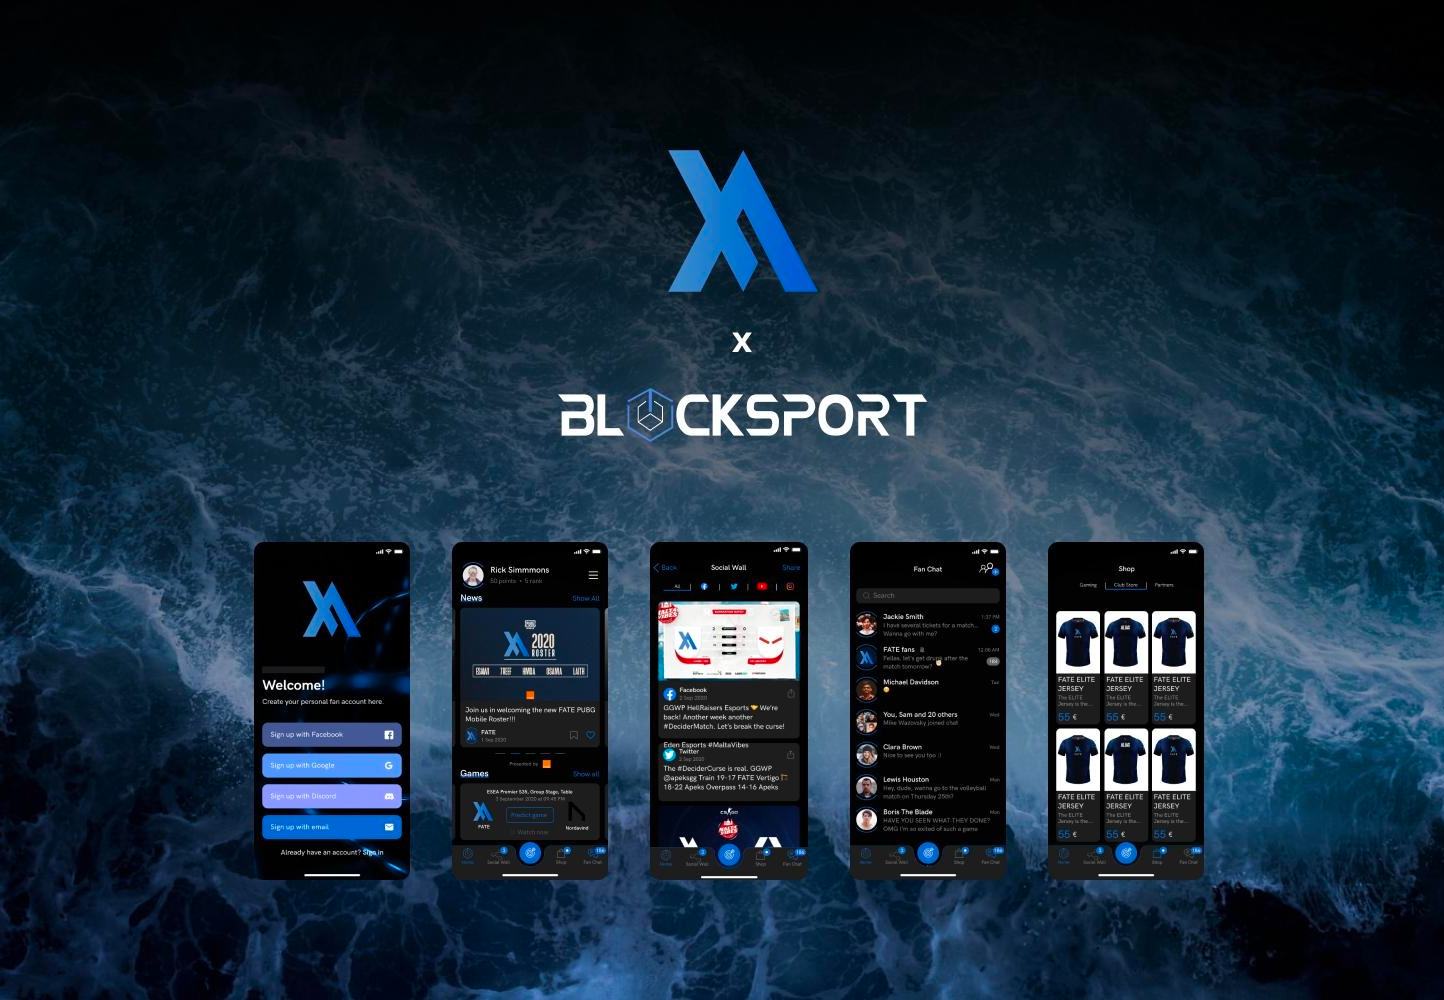
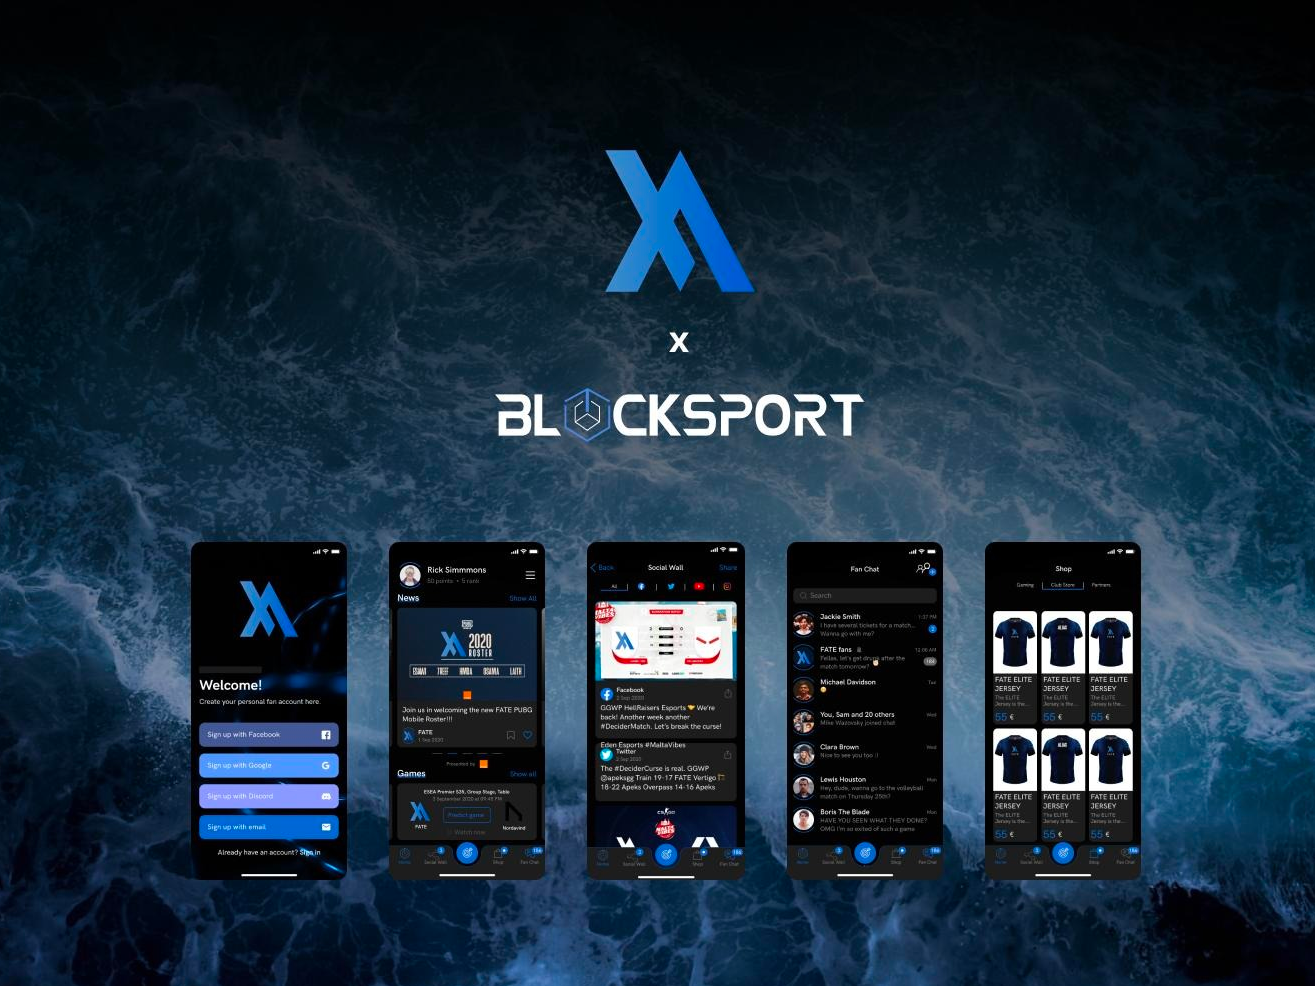
new project BloxMove in portfolio

diff --git a/_includes/about-portfolio.html b/_includes/about-portfolio.html
@@ -1381,8 +1381,8 @@
                 <picture>
                   <source srcset="{{ 'img/portfolio/Blocksport.webp' | to_cdn_url }}"
                           type="image/webp">
-                  <img src="{{ 'img/portfolio/Blocksport.jpg' | to_cdn_url }}"
-                       alt="Fynts"
+                  <img src="{{ 'img/portfolio/Blocksport.png' | to_cdn_url }}"
+                       alt="Blocksport"
                        class="img-responsive img-portfolio">
                 </picture>
               </div>
@@ -1439,6 +1439,81 @@
             </h2>
             <div class="portfolio-item-description">
               Node.js, NestJS, Web3, PostgreSQL, Solidity, Hardhat, Binance Smart Chain
+            </div>
+          </div>
+        </div>
+      </li>
+      <li
+        id="17"
+        class="col-md-6 col-sm-6 col-xs-12"
+        data-groups='["Solidity"]'
+        data-categories="FinTech, Blockchain"
+      >
+        <div class="portfolio-item">
+          <div class="portfolio-item-title">BloxMove</div>
+          <div class="portfolio-item-first-section">
+            <div class="portfolio-image-wrap">
+              <div class="projects" id="nineteenth-project" title="Click to see details">
+                <picture>
+                  <source srcset="{{ 'img/portfolio/BloxMove.webp' | to_cdn_url }}"
+                          type="image/webp">
+                  <img src="{{ 'img/portfolio/BloxMove.jpg' | to_cdn_url }}"
+                       alt="Fynts"
+                       class="img-responsive img-portfolio">
+                </picture>
+              </div>
+            </div>
+            <h2 class="portfolio-item-solution portfolio-item-name hidden nineteenth-project">
+              Solution
+            </h2>
+            <div class="portfolio-item-description hidden nineteenth-project">
+              The smart contract for the Flexible Liquidity Farming investor service.
+            </div>
+            <h2 class="portfolio-item-name hidden nineteenth-project">
+              Client
+            </h2>
+            <div class="portfolio-item-description hidden nineteenth-project">
+              Bloxmove - working to create a worldwide decentralized and collaborative urban mobility alliance alongside an efficient green energy reality using blockchain technology.
+            </div>
+          </div>
+          <div class="portfolio-item-second-section hidden nineteenth-project">
+            <h2 class="portfolio-item-name">
+              Role
+            </h2>
+            <div class="portfolio-item-description">
+              Feasibility analysis and development of the primary smart contract helped the client’s team to test and integrate the smart contract into their solution.
+            </div>
+            <h2 class="portfolio-item-name">
+              Description
+            </h2>
+            <div class="portfolio-item-description">
+              Treasury smart contract is a part of the client’s investing system that facilitates the ability to channel token supply and demand in a measured, reliable,
+              and mutually beneficial for the client and investors manner providing rewards for liquidity farming, staking, and bridging between chains.
+              TSC itself controls tokens distribution among possible investment instruments and retrieves tokens back to provide investors with their funds and additional rewards.
+            </div>
+            <h2 class="portfolio-item-name">
+              Team and duration
+            </h2>
+            <div class="portfolio-item-description">
+              2 Solidity Developers and a Project manager
+            </div>
+            <h2 class="portfolio-item-name">
+              Industries
+            </h2>
+            <div class="portfolio-item-description">
+              FinTech, Crypto
+            </div>
+            <h2 class="portfolio-item-name">
+              Country
+            </h2>
+            <div class="portfolio-item-description">
+              Ireland
+            </div>
+            <h2 class="portfolio-item-name">
+              Technologies
+            </h2>
+            <div class="portfolio-item-description">
+              Solidity, Hardhat, ethers.js, Waffle, UUPS upgradability, solidity-coverage, Chai
             </div>
           </div>
         </div>
